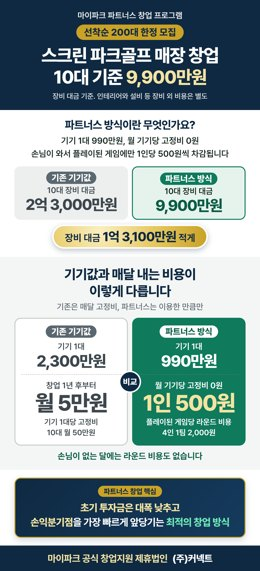
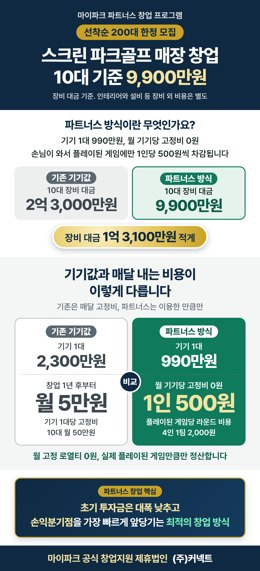
Remove negative phrasing across 1-page image and web concepts (v20261014v6)

Changed region(s): [[0.1231, 0.7741, 0.8923, 0.8039]]

diff --git a/shared/content.js b/shared/content.js
@@ -66,12 +66,12 @@
     // 두 번째 큰 주제: 기존(2,300만원 + 1년 후 월 5만원) 대 파트너스(990만원 + 라운드 비용)
     vs: {
       title: '기기값과 매달 내는 비용이 이렇게 다릅니다',
-      lead: '기존은 매달 고정비, 파트너스는 이용한 만큼만 내므로 초기 투자 부담을 줄여 손익분기점을 빠르게 앞당깁니다.',
+      lead: '기존은 매달 고정비, 파트너스는 이용한 만큼만 내므로 초기 투자금을 낮춰 손익분기점을 빠르게 앞당깁니다.',
       mid: '비교',
       legacy: { tag: '기존 기기값', price: '{unitLegacy}', priceNote: '기기 1대', feeTitle: '창업 1년 후부터', fee: '월 {licenseLegacy}', feeNote: '기기 1대당 고정비, {base} 월 {licenseLegacy10}' },
       partners: { tag: '파트너스 방식', price: '{unitNew}', priceNote: '기기 1대', feeTitle: '월 기기당 고정비 0원', fee: '1인 {royalty}', feeNote: '플레이된 게임당 라운드 비용, 4인 1팀 {royaltyTeam}' },
       points: [
-        '월 기기당 고정비는 0원이고, 손님이 없는 달에는 라운드 비용도 0원입니다.',
+        '월 기기당 고정비와 시스템 라이선스가 모두 0원입니다.',
         '라운드 비용은 손님이 와서 플레이된 게임에만 1인당 {royalty}씩 차감됩니다.',
         '기기 1대당 {unitSave}, {base} 기준 {save10}을 먼저 아낀 상태로 시작해 손익분기점을 빠르게 앞당깁니다.'
       ]
@@ -104,7 +104,7 @@
       },
       support: {
         title: '운영 지원 프로그램',
-        items: ['마이파크 대학', '커뮤니티 형성 지원', '용품 보증금 제도 (사입 부담 없음)', '본사와 스폰서십 대회를 통한 매출 증대 지원']
+        items: ['마이파크 대학', '커뮤니티 형성 지원', '용품 보증금 제도 (사입 비용 0원)', '본사와 스폰서십 대회를 통한 매출 증대 지원']
       },
       trust: '스마일스퀘어는 14년간 스크린 시뮬레이터 사업을 운영해 왔고, 내부 개발진이 앱 업데이트를 꾸준히 진행합니다.'
     },
@@ -114,9 +114,9 @@
       lead: '본사에 내는 월 기기당 고정비는 0원이고, 손님이 와서 플레이된 게임에만 1인당 {royalty}씩 차감됩니다.',
       items: [
         { title: '본사에 내는 월 기기당 고정비 0원', body: '시스템 라이선스 월 0원, 월 고정 로열티 0원입니다. 기존 방식은 창업 1년 후부터 1대당 월 {licenseLegacy}이므로 {base} 기준 월 {licenseLegacy10}이 듭니다.' },
-        { title: '플레이된 게임에만 과금', body: '손님이 와서 게임이 플레이될 때만 1인당 {royalty}씩 차감됩니다. 손님이 없는 날은 과금도 0원입니다.' },
+        { title: '실제 플레이된 게임에만 과금', body: '손님이 와서 18홀 게임이 플레이될 때만 1인당 {royalty}씩 차감됩니다. 매장 이용량에 맞춰 투명하게 정산됩니다.' },
         { title: '금액을 바로 계산할 수 있습니다', body: '4인 1팀 한 게임 {teamFee} 중 라운드 비용은 {royaltyTeam}이고, 나머지 {teamOwner}은 모두 매장 매출입니다.' },
-        { title: '이용이 적은 달에도 비용이 함께 줄어듭니다', body: '기기 1대당 한 달 {playersMonth} 이하로 이용하면 라운드 비용이 월 {licenseLegacy} 이하입니다. 한산한 달에도 가볍게 운영할 수 있습니다.' }
+        { title: '매출 흐름에 맞춰 합리적으로 운영합니다', body: '매달 고정비 없이 실제 이용 인원에 비례해 과금되므로 매장 상황에 맞춰 효율적으로 운영할 수 있습니다.' }
       ]
     },
 

diff --git a/index.html b/index.html
@@ -41,16 +41,16 @@
 </header>
 <main class="wrap">
   <ul class="grid">
-    <li class="card"><img src="thumbs/concept_3_dark.jpg?v=20261014v5" alt="시안 1 다크 대시보드 첫 화면" width="640" height="440"><div class="body"><span class="num">시안 1</span><h2>다크 대시보드</h2><p>어두운 화면에 큰 숫자와 막대 비교를 보여 주는 금융 앱형입니다. 장비 대금 비교와 대수별 계산기가 중심입니다.</p><a class="btn" href="concepts/concept_3_dark.html?v=20261014v5" target="_blank" rel="noopener">시안 1 보기</a></div></li>
-    <li class="card"><img src="thumbs/concept_4_swiss.jpg?v=20261014v5" alt="시안 2 스위스 타이포 첫 화면" width="640" height="440"><div class="body"><span class="num">시안 2</span><h2>스위스 타이포</h2><p>굵은 글자와 선만으로 숫자를 강조하는 고대비형입니다. 군더더기 없이 숫자가 먼저 보입니다.</p><a class="btn" href="concepts/concept_4_swiss.html?v=20261014v5" target="_blank" rel="noopener">시안 2 보기</a></div></li>
+    <li class="card"><img src="thumbs/concept_3_dark.jpg?v=20261014v6" alt="시안 1 다크 대시보드 첫 화면" width="640" height="440"><div class="body"><span class="num">시안 1</span><h2>다크 대시보드</h2><p>어두운 화면에 큰 숫자와 막대 비교를 보여 주는 금융 앱형입니다. 장비 대금 비교와 대수별 계산기가 중심입니다.</p><a class="btn" href="concepts/concept_3_dark.html?v=20261014v6" target="_blank" rel="noopener">시안 1 보기</a></div></li>
+    <li class="card"><img src="thumbs/concept_4_swiss.jpg?v=20261014v6" alt="시안 2 스위스 타이포 첫 화면" width="640" height="440"><div class="body"><span class="num">시안 2</span><h2>스위스 타이포</h2><p>굵은 글자와 선만으로 숫자를 강조하는 고대비형입니다. 군더더기 없이 숫자가 먼저 보입니다.</p><a class="btn" href="concepts/concept_4_swiss.html?v=20261014v6" target="_blank" rel="noopener">시안 2 보기</a></div></li>
   </ul>
 
   <section class="one" aria-labelledby="one-t">
-    <a href="onepager.png?v=20261014v5" target="_blank" rel="noopener"><img src="thumbs/onepager.jpg?v=20261014v5" alt="고객에게 보낼 한 장 이미지 미리보기" width="260" height="571"></a>
+    <a href="onepager.png?v=20261014v6" target="_blank" rel="noopener"><img src="thumbs/onepager.jpg?v=20261014v6" alt="고객에게 보낼 한 장 이미지 미리보기" width="260" height="571"></a>
     <div>
       <h2 id="one-t">고객에게 보낼 한 장 이미지</h2>
       <p>상담 고객에게 보내거나 홈페이지에 올릴 1장 요약본입니다. 하단에 초기 투자금 절감과 손익분기점 단축 핵심 문구 및 공식 창업지원 제휴법인 표기를 반영하고 스마트폰 줄맞춤을 적용했습니다.</p>
-      <a class="btn" href="onepager.png?v=20261014v5" target="_blank" rel="noopener">이미지 크게 보기</a>
+      <a class="btn" href="onepager.png?v=20261014v6" target="_blank" rel="noopener">이미지 크게 보기</a>
     </div>
   </section>
 </main>
